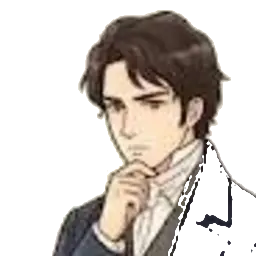
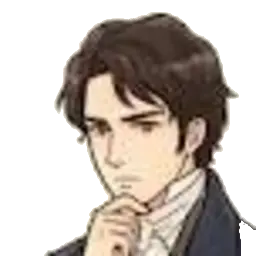
fix: ダーシー氏の頭の位置と傾きを補正
- 肖像ごとの貼り付け微調整 PORTRAIT_FIT（scale/dx/dy/rot）を追加。
  EstateFigure.portraitId を App.tsx から渡し、paintFigure が頭の中心を
  原点に補正をかける。
- darcy: うつむき加減の斜め半身像なので、頭を少し起こし（rot -0.1）中央へ
  寄せ、拡大して燕尾服の襟に載せる。bingley/georgiana/louisa も軽く調整。
- darcy-calm.webp を顔だけにタイトに切り直し（手・クラヴァットを除外）。

diff --git a/artifacts/pemberley-day/src/visuals/EstateScene.ts b/artifacts/pemberley-day/src/visuals/EstateScene.ts
@@ -23,6 +23,18 @@ export type EstateFigure = {
   moving?: boolean;
   /** 顔に貼る肖像画（左パネルのカードと同じ画像）。無ければ描き顔。 */
   portrait?: HTMLImageElement | null;
+  /** 肖像画の人物 id（貼り付け位置の微調整 PORTRAIT_FIT の参照に使う）。 */
+  portraitId?: string;
+};
+
+// 肖像画ごとの貼り付け微調整。キャスト表は半身像でポーズや顔位置がまちまちなので、
+// 歩く人物の頭にきれいに載るよう個別に補正する。dx/dy は hr 単位、rot はラジアン。
+const PORTRAIT_FIT: Record<string, { scale?: number; dx?: number; dy?: number; rot?: number }> = {
+  // うつむき加減の斜め半身像。頭を少し起こし、右にずれた顔を中央へ。
+  darcy: { scale: 1.16, dx: -0.12, dy: 0.18, rot: -0.1 },
+  bingley: { scale: 1.12, dy: 0.12 },
+  georgiana: { scale: 1.08, dx: 0.06, dy: 0.06 },
+  louisa: { scale: 1.06, dy: 0.06 },
 };
 
 export type EstateSceneInput = {
@@ -240,8 +252,8 @@ function paintFigure(ctx: CanvasRenderingContext2D, at: Pt, s: number, fig: Esta
     // 紳士は頭の基準位置が高いので、少し下げて燕尾服の襟に接がせる。
     const phcy = fig.kind === 'lady' ? hcy : hcy + hr * 0.42;
     const draw = (hr * 2) / 0.52;
-    const imgX = -draw * 0.5;
-    const imgY = phcy - draw * 0.47;
+    const fit = (fig.portraitId && PORTRAIT_FIT[fig.portraitId]) || {};
+    const fitScale = fit.scale ?? 1;
 
     // 首と肩ヨーク（ポーズに依らず頭を胴に載せる土台。肖像の前に敷く）。
     const torsoTop = phcy + hr * 0.7;
@@ -274,7 +286,10 @@ function paintFigure(ctx: CanvasRenderingContext2D, at: Pt, s: number, fig: Esta
     ctx.clip();
     // 進行方向へ顔を向ける（画面左へ歩くときだけ左右反転）。
     if ((fig.face ?? 0) < 0) ctx.scale(-1, 1);
-    ctx.drawImage(photo, imgX, imgY, draw, draw);
+    // 肖像ごとの微調整（頭の中心を原点に、傾き・ずれ・拡大を補正）。
+    ctx.translate((fit.dx ?? 0) * hr, phcy + (fit.dy ?? 0) * hr);
+    if (fit.rot) ctx.rotate(fit.rot);
+    ctx.drawImage(photo, -draw * 0.5 * fitScale, -draw * 0.47 * fitScale, draw * fitScale, draw * fitScale);
     ctx.restore();
   } else {
   // 髪（頭の後ろ）

diff --git a/artifacts/pemberley-day/src/App.tsx b/artifacts/pemberley-day/src/App.tsx
@@ -489,6 +489,7 @@ function EstateCanvas({ mode, player, hour, language = 'en', figureExpressions, 
           urgent: Boolean(destination && currentProps.emergencyActive),
           expression: currentProps.figureExpressions?.[person.id] ?? 'calm',
           portrait: portraitImage(person.id, currentProps.figureExpressions?.[person.id] ?? 'calm'),
+          portraitId: person.id,
           ...faceOf(person.id, current.x, current.y),
         });
       });
@@ -533,6 +534,7 @@ function EstateCanvas({ mode, player, hour, language = 'en', figureExpressions, 
             label: visitor.label,
             expression: visitor.expression,
             portrait: portraitImage(visitor.id, visitor.expression),
+            portraitId: visitor.id,
             face: near ? facePlayer : motion.face,
             moving: near ? false : motion.moving,
           });
